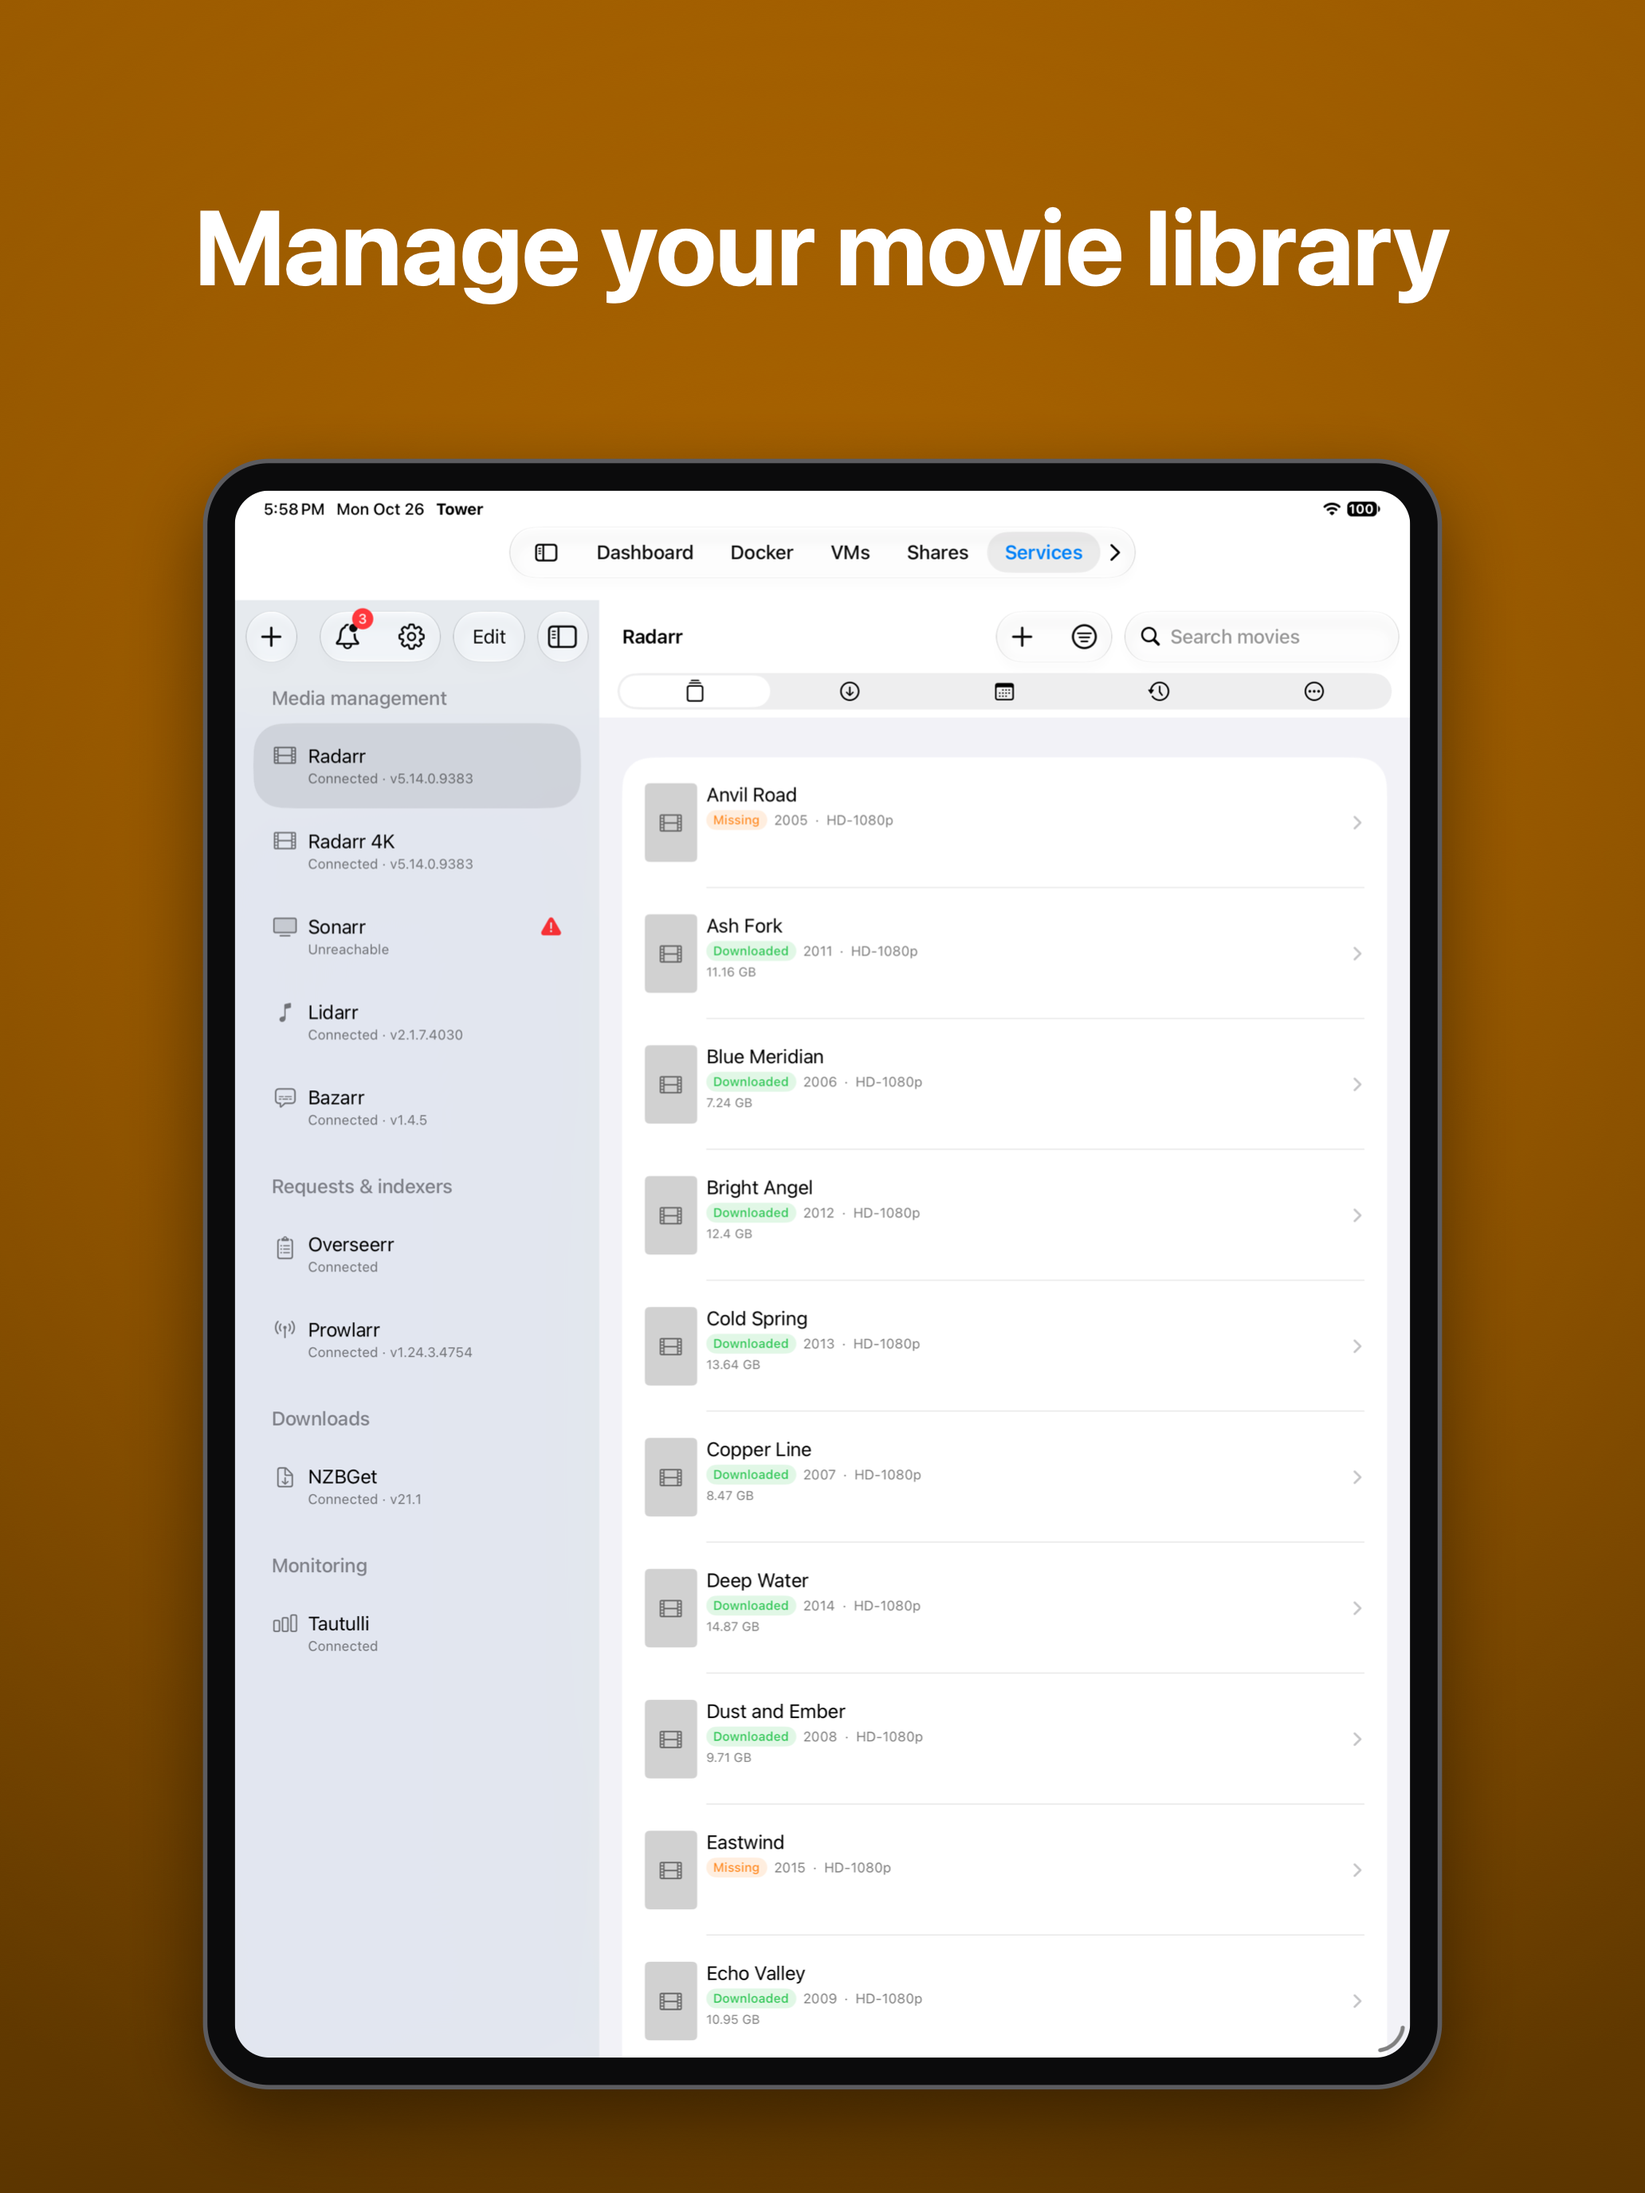
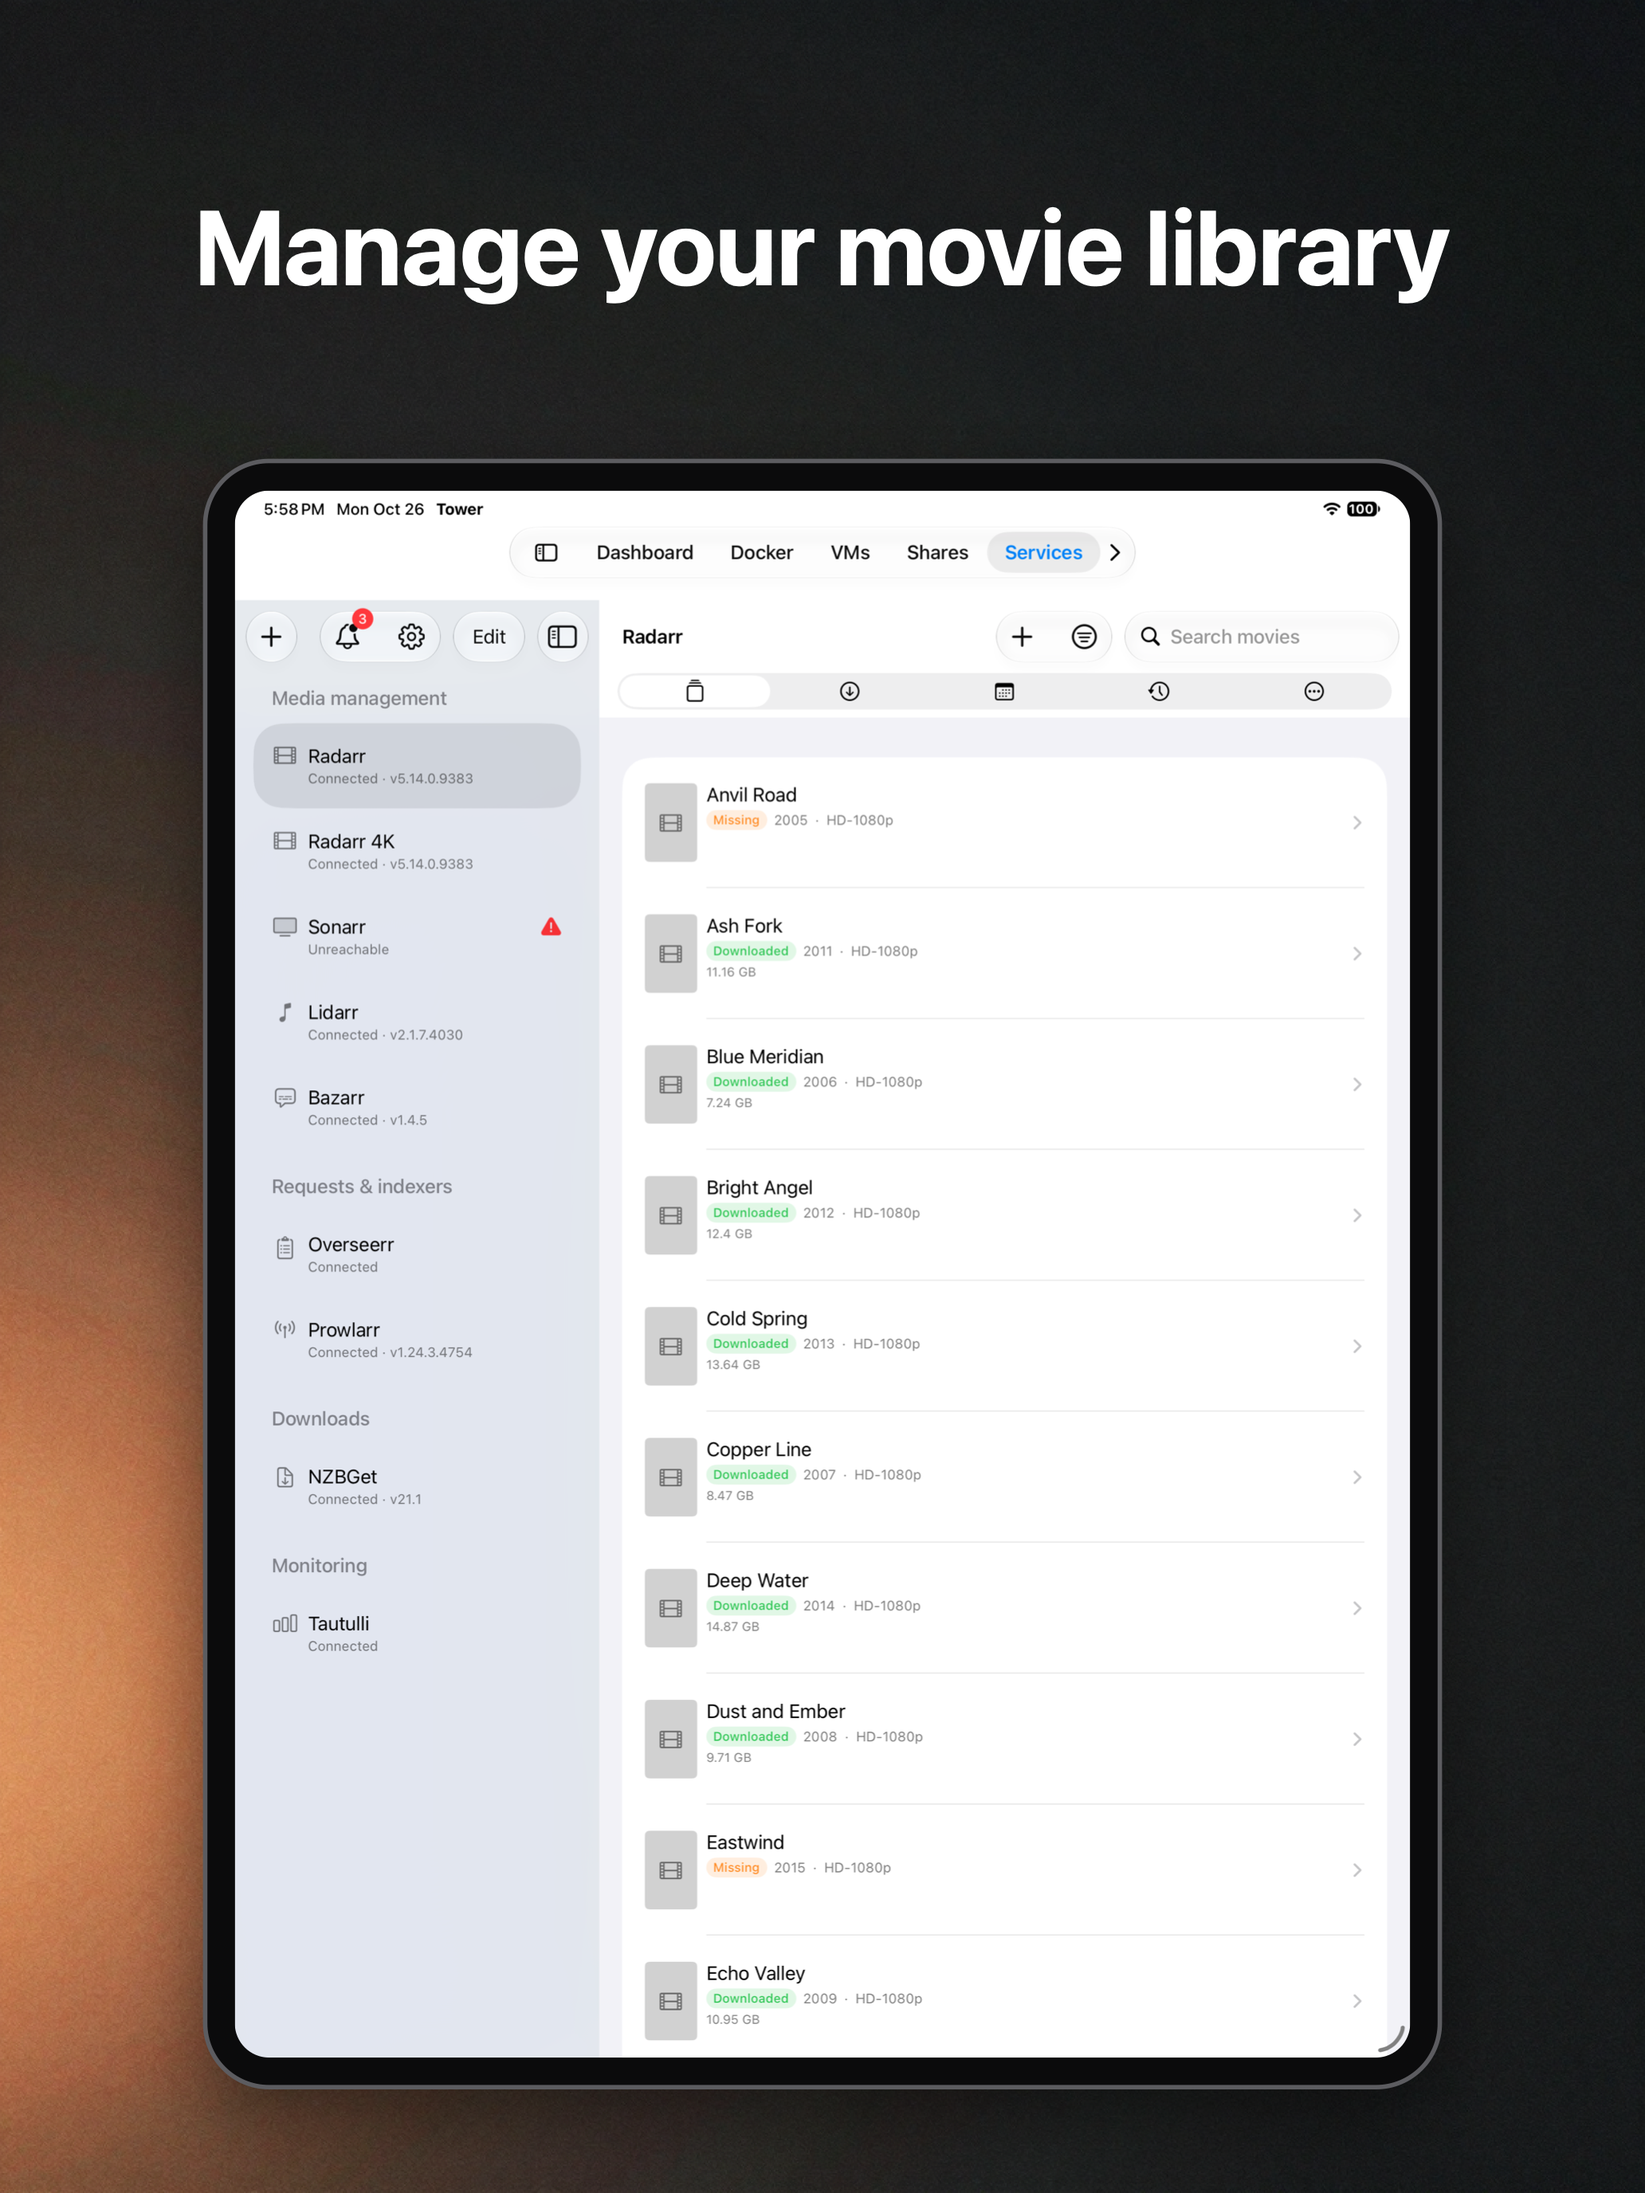
Frame the store screenshots over generated dark backgrounds (#34)
Add the two Z-Image Turbo backgrounds (seed 101) under
docs/app-store-assets/background/, record their provenance in the
framer's header, reframe both sets, and rewrite CLAUDE.md's Screenshots
section for the raw/, <kind>/ and background/ layout.

diff --git a/scripts/frame-screenshots.swift b/scripts/frame-screenshots.swift
@@ -16,9 +16,11 @@
 //   model    z_image_turbo_bf16.safetensors, text encoder qwen_3_4b.safetensors,
 //            VAE ae.safetensors
 //   sampler  res_multistep, scheduler simple, 8 steps, cfg 1, denoise 1
-//   prompt   BACKGROUND_PROMPT
-//   iphone-69  832x1808, seed BACKGROUND_SEED_PHONE
-//   ipad-13    1152x1536, seed BACKGROUND_SEED_PAD
+//   shift    3 (ModelSamplingAuraFlow), negative is the zeroed prompt
+//   prompt   "dark charcoal studio backdrop, one soft out-of-focus warm orange light glow
+//            from the lower left, fine grain, top third nearly black, no text, no objects"
+//   iphone-69  832x1808, seed 101
+//   ipad-13    1152x1536, seed 101
 //
 //   swift scripts/frame-screenshots.swift iphone-69 <raw dir> <out dir>
 //   swift scripts/frame-screenshots.swift ipad-13   <raw dir> <out dir>

diff --git a/CLAUDE.md b/CLAUDE.md
@@ -194,29 +194,57 @@ fails in the full suite.
 
 ## Screenshots
 
-`scripts/screenshots.sh [out-dir]` captures demo mode through
-`ScreenshotTourUITests` into `docs/app-store-assets/iphone-69` (1320×2868, on
-`Tower iPhone 17 Pro Max`) and `docs/app-store-assets/ipad-13` (2064×2752, on `Tower iPad`).
-The gate device is 6.3", not 6.9", so it cannot produce the store set.
+`scripts/screenshots.sh [out-dir]` captures demo mode through `ScreenshotTourUITests` on
+`Tower iPhone 17 Pro Max` (1320×2868) and `Tower iPad` (2064×2752), then frames each
+capture for the store. The gate device is 6.3", not 6.9", so it cannot produce the store
+set. Three folders under `docs/app-store-assets/` hold the result, and all three are
+committed:
 
-- `--kind iphone-69` or `--kind ipad-13` captures one size. `--simulator-id <udid>` (with
+| Folder | Holds |
+| --- | --- |
+| `raw/<kind>/` | The tour's captures, named for what they show (`dashboard.png`). `--frame` reads them. |
+| `<kind>/` | The store images, `NN-<name>.png`: a capture in a device frame under a caption. The upload reads these. |
+| `background/<kind>.png` | The generated image behind each set. Without it, the framer draws an orange gradient. |
+
+`<kind>` is `iphone-69` or `ipad-13`. The upload reads only the top level of each set
+folder, so `raw/` and `background/` never reach App Store Connect.
+
+- **`scripts/frame-screenshots.swift` owns `LISTING`**: the store order and the caption for
+  each capture. Reorder or recaption by editing that table. `swift
+  scripts/frame-screenshots.swift --list` prints the order, and the shell script reads it
+  from there.
+- The framer numbers the store images `%02d`. The upload order comes from a lexicographic
+  sort of the filenames, so an unpadded `10-` would sort before `2-`.
+- The tour photographs screens that must never ship, such as UI-test fixtures. Only what
+  `LISTING` names reaches `raw/` and the store set.
+- The App Store accepts at most ten screenshots per size, and the script refuses a
+  `LISTING` longer than that. It also checks each store image's count, size, and
+  `hasAlpha: no`.
+- The framer fails the run when white caption text reads below 4.5:1 on the lightest
+  pixel under it. Fix a failing background, never the check.
+- The app UI inside a frame is the unedited capture, scaled. App Review guideline 2.3.3
+  requires that. The framer draws only the background, the frame, the phone's Dynamic
+  Island and the caption.
+- **`--frame`** frames the committed raw captures again with no tour, no simulator and no
+  `xcodebuild`. Use it after a change to `LISTING`, a caption or a background.
+- **The tour overrides the status bar**: 9:41 on 2007-01-09, full bars, 100% battery with
+  `--batteryState discharging` (a level alone draws a charging battery). `simctl` takes the
+  date only as ISO 8601 with milliseconds and an offset, such as
+  `2007-01-09T09:41:00.000-06:00`. An EXIT trap clears the override, also when the run fails.
+- The script builds everything in a staging folder. It copies into `out-dir` only after
+  every check for every kind passes.
+- `--kind iphone-69` or `--kind ipad-13` does one size. `--simulator-id <udid>` (with
   `--kind`) captures on that simulator instead of the named one, for a caller that
-  manages its own simulators. Without it, the script refuses to start while another
+  manages its own simulators. Without it, a tour refuses to start while another
   `xcodebuild` runs. `--help` prints the usage.
 - The script changes to its own repo root and passes the project explicitly, so it
   builds its own checkout's code whatever directory you run it from.
-- The assets are committed, because they are what gets uploaded, and the diff is the
-  listing's diff.
 - The tour reads `TOWER_SCREENSHOT_DIR` in the test runner process, so it has to arrive as
   test-runner environment (`testRunnerEnv`, or a `TEST_RUNNER_`-prefixed host variable).
   An unprefixed host variable is ignored and the tour writes to its default path.
-- The `LISTING` array in the script picks which captures ship and numbers them `%02d`.
-  The upload order comes from a lexicographic sort of the filenames, so an unpadded `10-`
-  sorts before `2-`. Reorder the listing by editing that array.
-- The tour photographs screens that must never ship, such as UI-test fixtures. Only what
-  `LISTING` names survives.
-- The App Store accepts at most ten screenshots per size, and the script refuses a
-  `LISTING` longer than that.
+- The tour stays in light appearance.
+- The backgrounds come from a headless ComfyUI run. The header comment of
+  `scripts/frame-screenshots.swift` records the model, sampler, steps, prompt and seeds.
 
 ## Style
 
